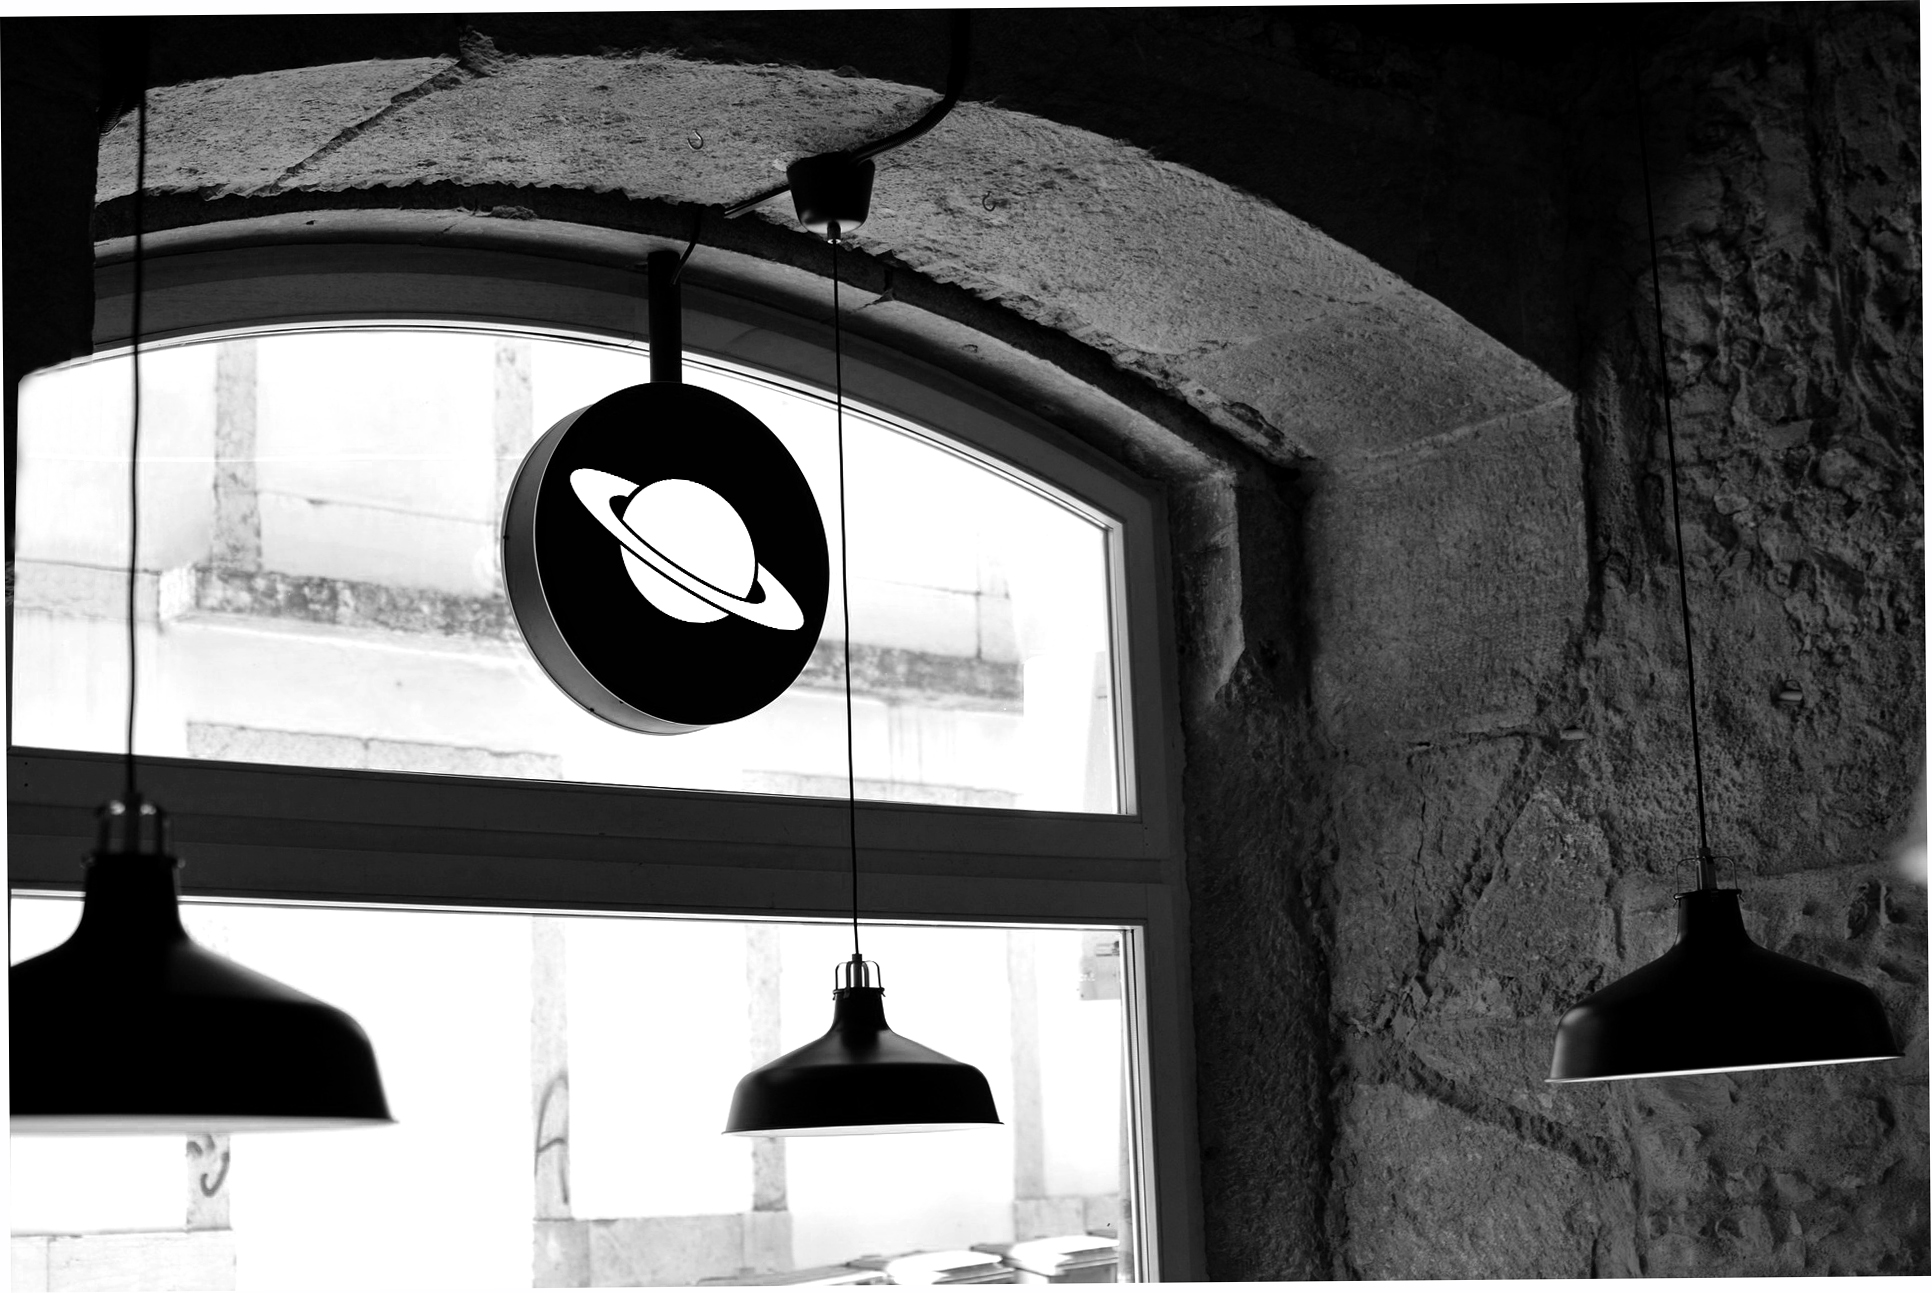
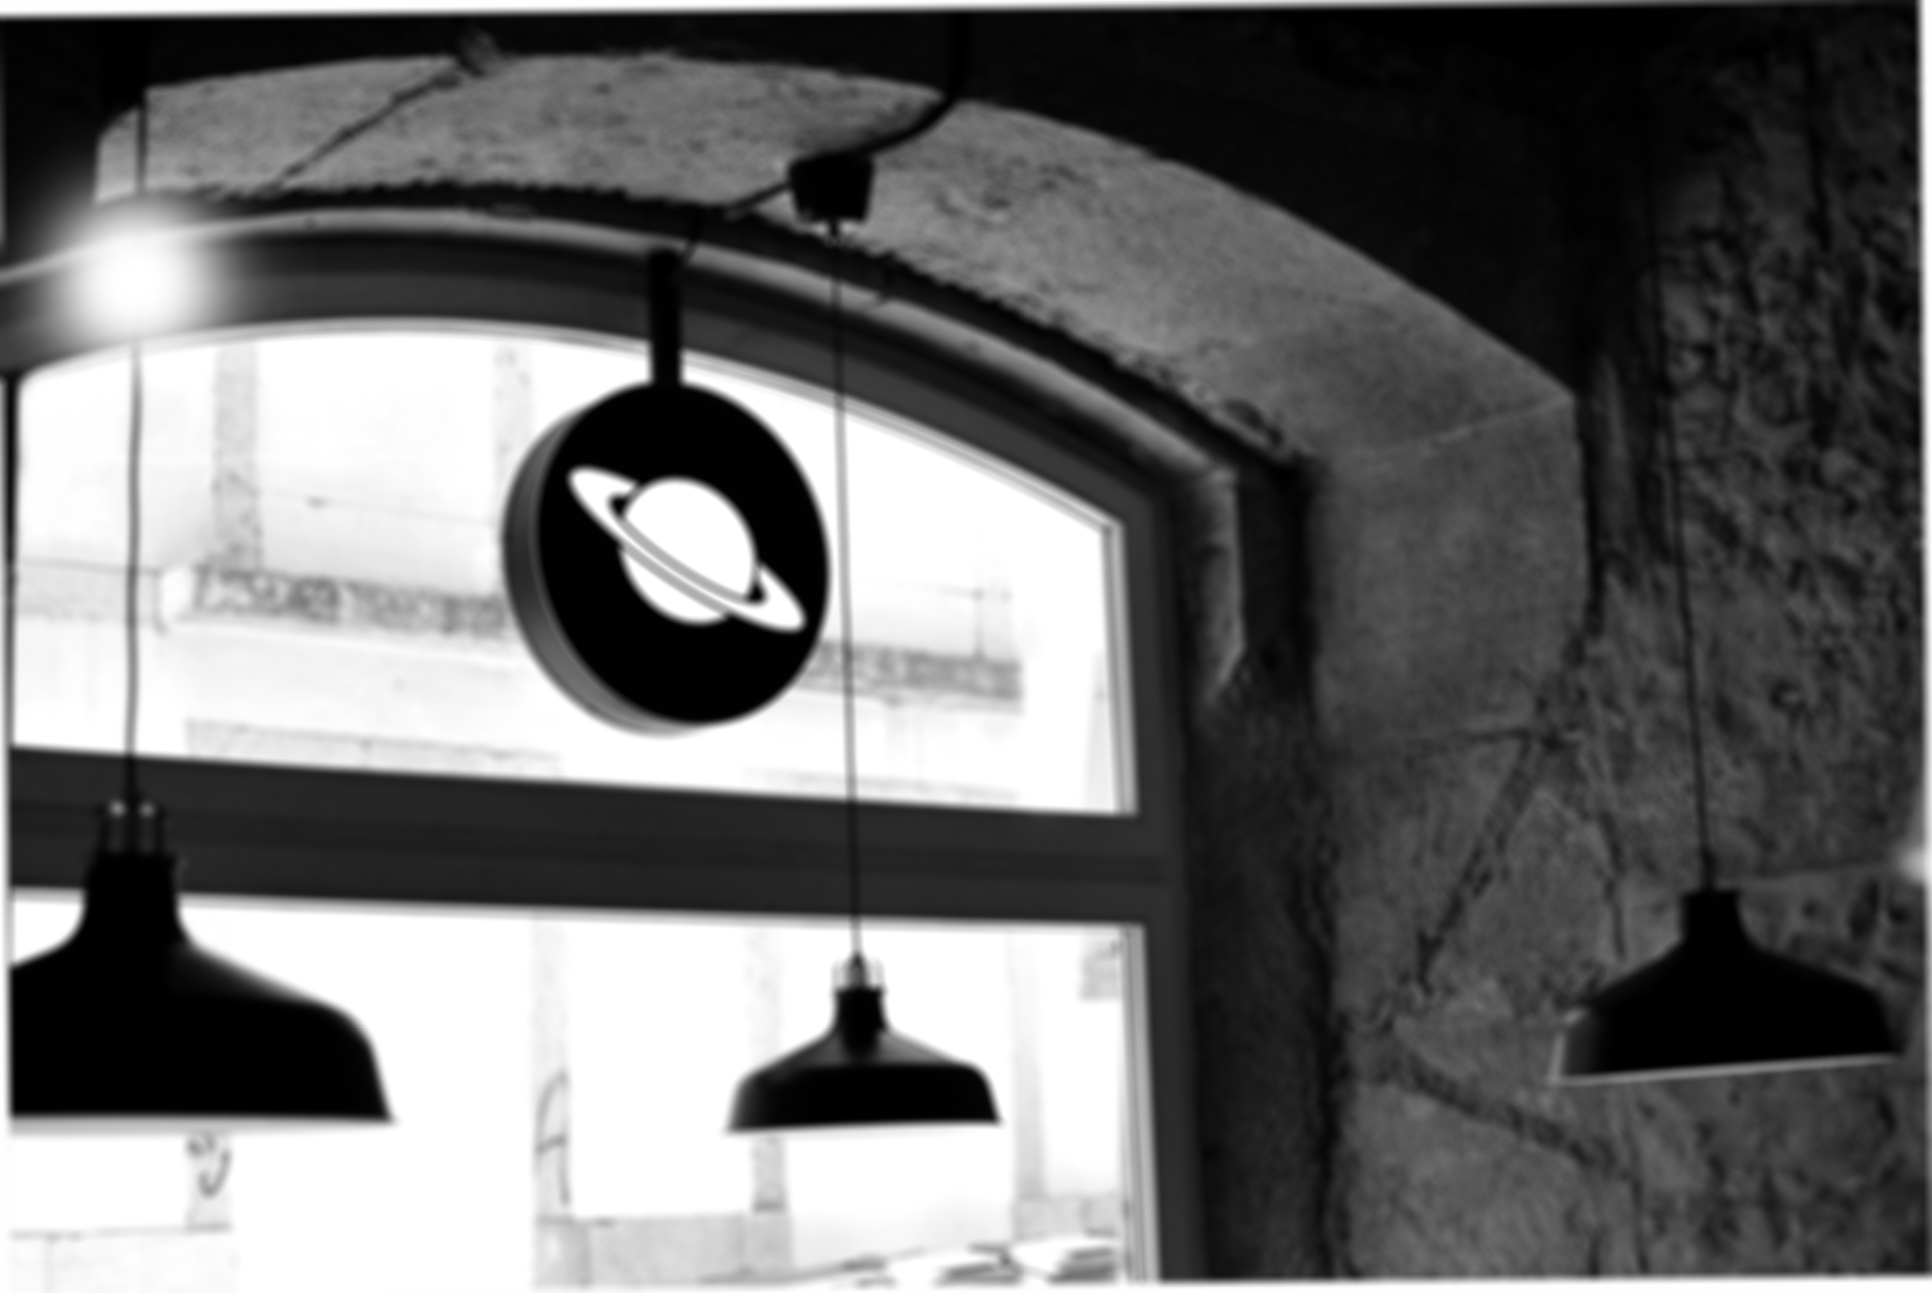
cambio bg js & diseño frontend

diff --git a/src/main/resources/static/css/main.css b/src/main/resources/static/css/main.css
@@ -1,11 +1,18 @@
 :root {
-  --bg-color: #161616;
+  --bg-blk: #000;
+  --bg-blkopa: #161616aa;
 }
 
-body {
+.bgblur {
   background-image: url(../img/bg/b4.jpg) !important;
   background-repeat: no-repeat;
-  background-position: -10px -370px;
+  background-position: -10px -220px;
+}
+
+.bgopa {
+  background-image: url(../img/bg/b4_off.jpg) !important;
+  background-repeat: no-repeat;
+  background-position: -10px -220px;
 }
 
 p, h1, h2, h3, h4, h5 {
@@ -19,8 +26,14 @@ p, h1, h2, h3, h4, h5 {
   margin: 0.9rem;
 }
 
-.bg-color {
-  background-color: var(--bg-color) !important;
+.bg-blk {
+  background-color: var(--bg-blk) !important;
+  border-top: 3px solid red;
+}
+
+.bg-blkopa {
+  background-color: var(--bg-blkopa) !important;
+  border-bottom: 7px solid red;
 }
 
 .pagMinHeight {

diff --git a/src/main/resources/templates/inc/footer.html b/src/main/resources/templates/inc/footer.html
@@ -1,6 +1,6 @@
 
 
-<footer class="bg-secondary noverflow">
+<footer class="bg-blk overflow">
 		<div class="bg-gradient">
 			<div class="liner"></div>
 			<div class="rrss text-center p-5">
@@ -10,9 +10,7 @@
 					class="fab fa-youtube text-light h2 p-3"></i>
 			</div>
 	</div>
-	<div class="bg-dark">
-		<p class="text-white p-3 text-center">© 2021 Bookie</p>
+	<div class="bg-blkopa">
+		<p class="text-danger p-3 text-center">© 2021 PizzaSaturn</p>
 	</div>
 </footer>
-</body>
-</html>

diff --git a/src/main/resources/templates/registro.html b/src/main/resources/templates/registro.html
@@ -38,3 +38,12 @@
     </div>
 </form>
 <div th:replace="~{inc/footer}"></div>
+<script>
+    function load() {
+        document.body.classList.add('bgopa');
+    }
+    window.onload = load;
+</script>
+</body>
+
+</html>

diff --git a/src/main/resources/templates/index.html b/src/main/resources/templates/index.html
@@ -11,3 +11,11 @@
   </div>
 </div>
 <div th:replace="~{inc/footer}"></div>
+<script>
+  function load() {
+    document.body.classList.add('bgblur');
+  }
+  window.onload = load;
+</script>
+</body>
+</html>

diff --git a/src/main/resources/templates/login.html b/src/main/resources/templates/login.html
@@ -32,3 +32,11 @@
   </div>
 </form>
 <div th:replace="~{inc/footer}"></div>
+<script>
+  function load() {
+    document.body.classList.add('bgopa');
+  }
+  window.onload = load;
+</script>
+</body>
+</html>
